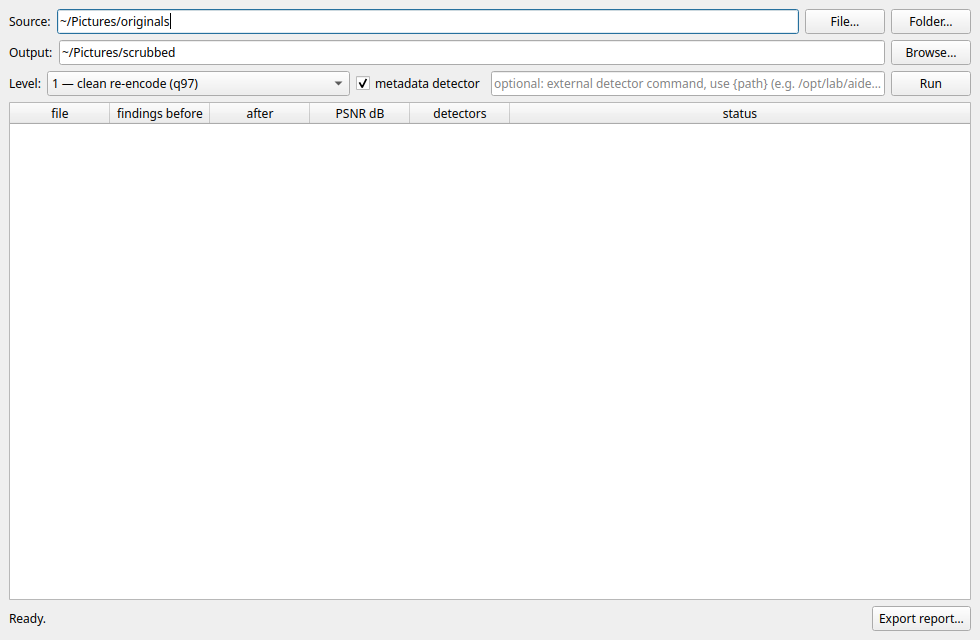
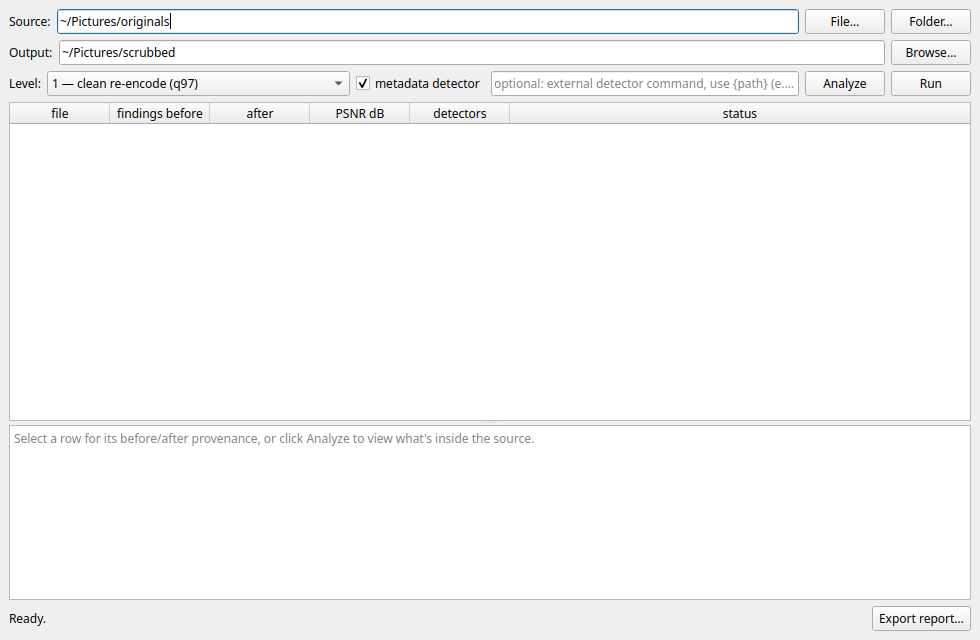
Update GUI detail pane and regenerate screenshots (v0.3.1)

Changed region(s): [[0.0, 0.6562, 0.551, 0.6875], [0.7959, 0.125, 0.8878, 0.1562]]

diff --git a/desktop_gui.py b/desktop_gui.py
@@ -190,18 +190,11 @@ class MainWindow(QMainWindow):
         self.detail.setPlainText("\n\n".join(parts))
         self.status.setText(f"Provenance analyzed for {len(parts)} file(s)")
 
-    def on_selection(self):
-        rows = self.table.selectionModel().selectedRows()
-        if not rows or not self.results:
-            return
-        idx = rows[0].row()
-        if idx >= len(self.results):
-            return
-        r = self.results[idx]
-        lines = [f"File: {Path(r.source).name}"]
-        lines.append("--- BEFORE (present in source) ---")
-        bef = r.provenance_before
-        for m in (bef.get("manifests") or []):
+    def _prov_lines(self, prov, label):
+        lines = [f"--- {label} ---"]
+        found = False
+        for m in (prov.get("manifests") or []):
+            found = True
             gen = (m.get("claim_generator", "") + " " +
                    m.get("claim_generator_version", "")).strip()
             lines.append(f"  manifest: {gen}" if gen else "  manifest: (unnamed)")
@@ -217,29 +210,37 @@ class MainWindow(QMainWindow):
                              + (f" (issuer {iss})" if iss else ""))
             if m.get("instance_id"):
                 lines.append(f"    instanceID: {m['instance_id']}")
-        if not bef.get("has_manifest") and not bef.get("exif") and \
-                not bef.get("xmp") and not bef.get("iptc_present"):
+        if prov.get("exif"):
+            found = True
+            lines.append(f"  EXIF: {len(prov['exif'])} field(s)")
+        if prov.get("xmp"):
+            found = True
+            lines.append("  XMP: present")
+        if prov.get("iptc_present"):
+            found = True
+            lines.append("  IPTC: present")
+        if not found:
             lines.append("  (no provenance metadata)")
         lines.append("")
-        lines.append("--- AFTER excision ---")
-        aft = r.provenance_after
-        if not (aft.get("manifests") or aft.get("exif") or aft.get("xmp")
-                or aft.get("iptc_present")):
-            lines.append("  (no provenance metadata)")
-        else:
-            for m in (aft.get("manifests") or []):
-                lines.append(f"  manifest: {m.get('claim_generator','')}")
-        lines.append("")
+        return lines
+
+    def on_selection(self):
+        rows = self.table.selectionModel().selectedRows()
+        if not rows or not self.results:
+            return
+        idx = rows[0].row()
+        if idx >= len(self.results):
+            return
+        r = self.results[idx]
+        lines = [f"File: {Path(r.source).name}"]
+        lines += self._prov_lines(r.provenance_before, "BEFORE (present in source)")
+        lines += self._prov_lines(r.provenance_after, "AFTER excision")
         lines.append("--- DIFF (proof) ---")
         d = r.provenance_diff
-        if d.get("removed"):
-            lines.append("  removed: " + ", ".join(d["removed"]))
-        else:
-            lines.append("  removed: (none)")
-        if d.get("remained"):
-            lines.append("  remained: " + ", ".join(d["remained"]))
-        else:
-            lines.append("  remained: (none)")
+        removed = ", ".join(d["removed"]) if d.get("removed") else "(none)"
+        remained = ", ".join(d["remained"]) if d.get("remained") else "(none)"
+        lines.append(f"  removed: {removed}")
+        lines.append(f"  remained: {remained}")
         self.detail.setPlainText("\n".join(lines))
 
     # ---------- run

diff --git a/scripts/make_screenshots.py b/scripts/make_screenshots.py
@@ -88,6 +88,16 @@ def main() -> int:
         w.progress.setRange(0, len(results))
         w.progress.setValue(len(results))
 
+        # Select a row with an actual removal so the provenance detail pane
+        # (before/after + diff) demonstrates its value in the screenshot.
+        sel = 0
+        for i, rr in enumerate(results):
+            if rr.status == "ok" and rr.provenance_diff.get("removed"):
+                sel = i
+                break
+        w.table.selectRow(sel)
+        QApplication.processEvents()
+
         grab(w, SCREENSHOTS / "gui-results.png")
 
     print(f"Wrote {SCREENSHOTS / 'gui-main.png'}")

diff --git a/scrubber/__init__.py b/scrubber/__init__.py
@@ -5,4 +5,4 @@ pixel-domain transform ladder for degrading latent (invisible) watermarks.
 Intended for processing your own content and for authorized security research.
 """
 
-__version__ = "0.3.0"
+__version__ = "0.3.1"
